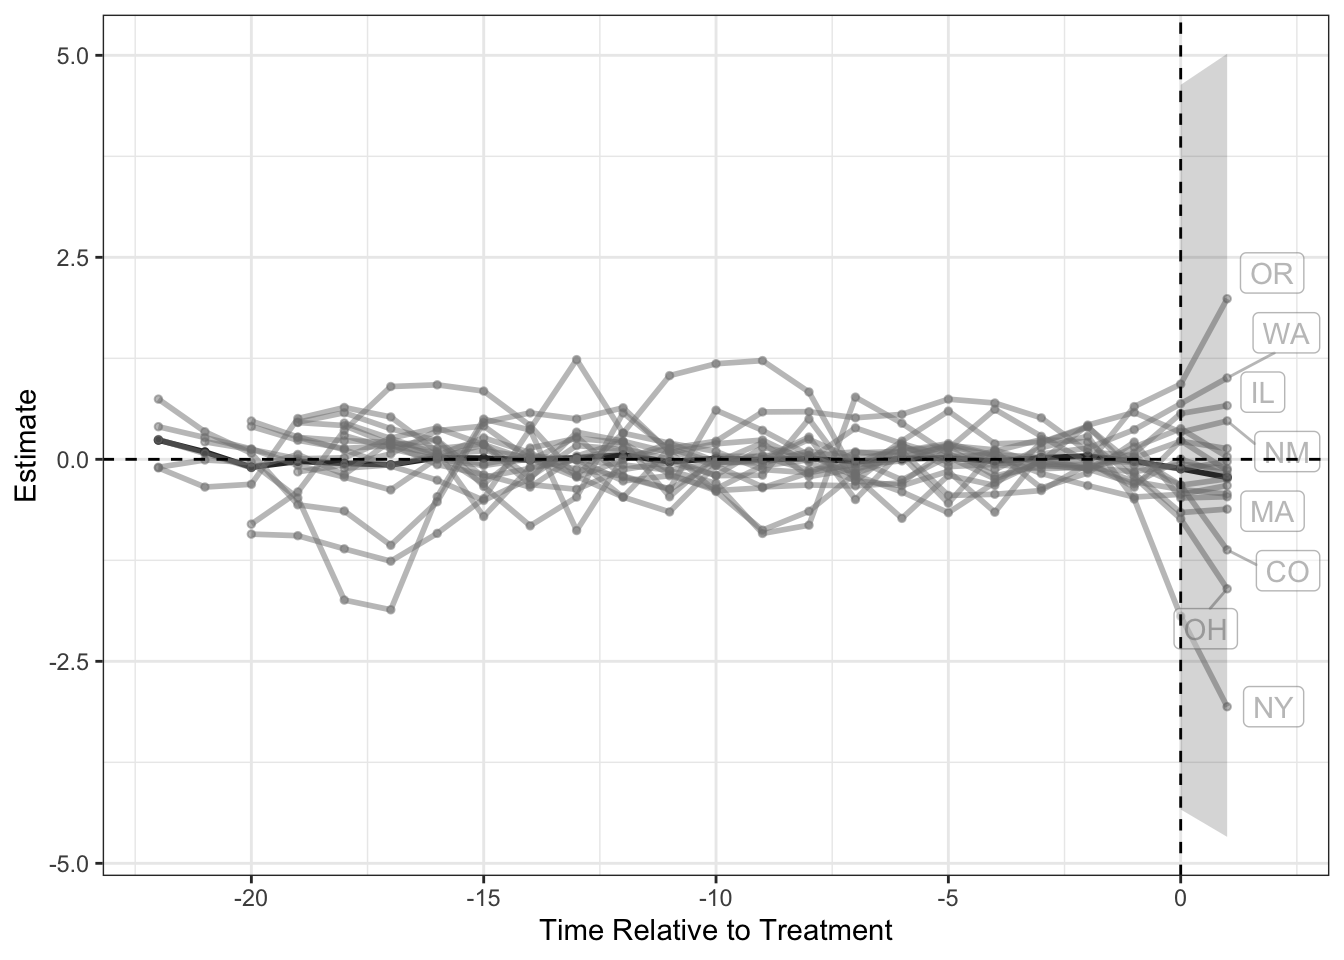
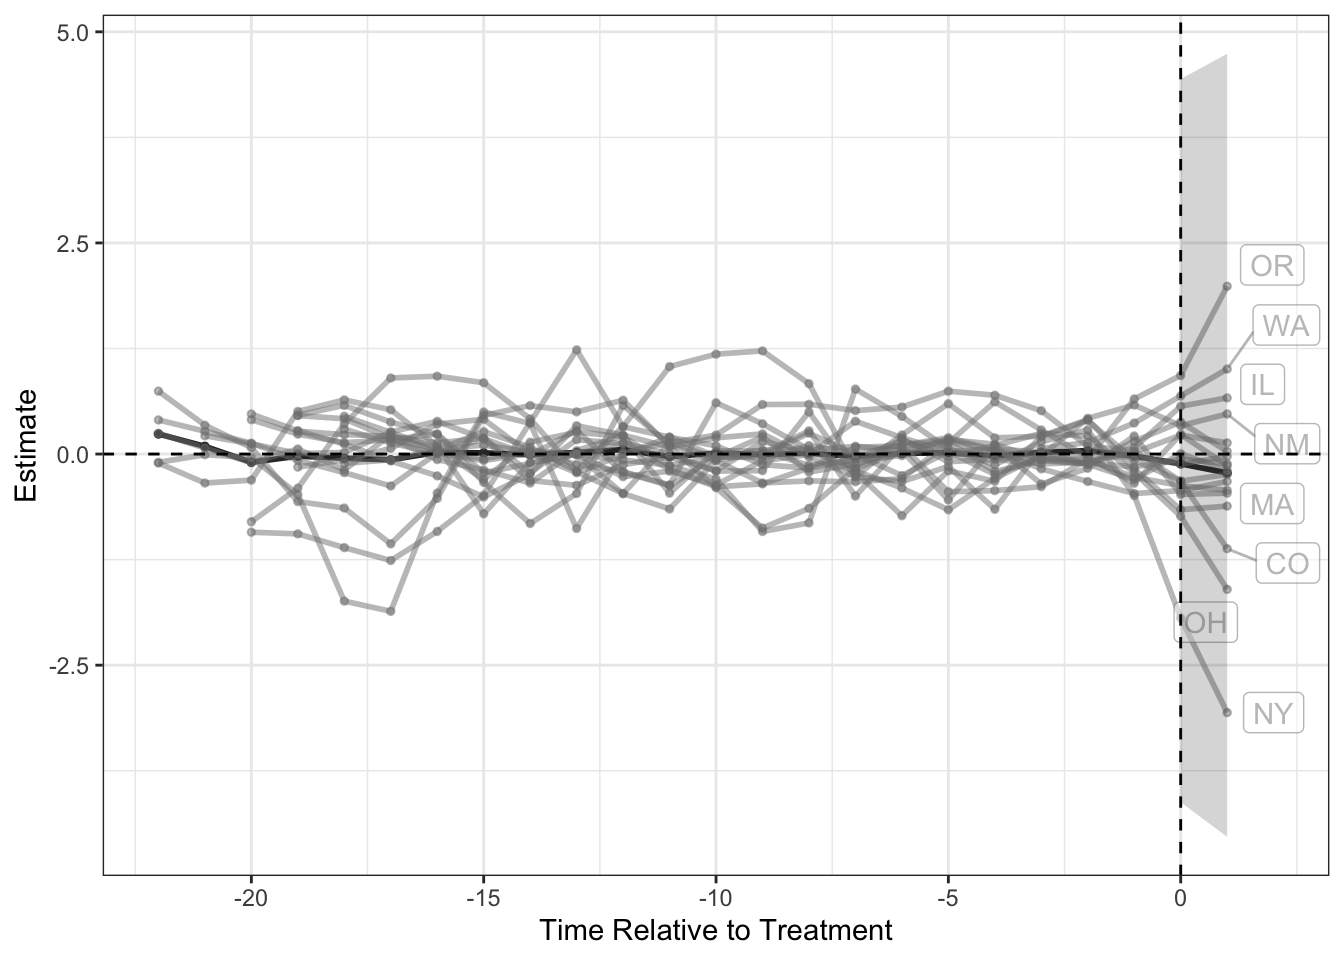
RS: updated SC

diff --git a/analysis/lottery-sc-handout.html b/analysis/lottery-sc-handout.html
@@ -679,7 +679,7 @@ single_augsynth(form = form, unit = !!enquo(unit), time = !!enquo(time),
     t_int = t_int, data = data, progfunc = "None", scm = TRUE, 
     fixedeff = FALSE)
 
-Average ATT Estimate (p Value for Joint Null):  -1.02   ( 0.71 )
+Average ATT Estimate (p Value for Joint Null):  -1.02   ( 0.69 )
 L2 Imbalance: 0.868
 Percent improvement from uniform weights: 72%
 
@@ -688,13 +688,13 @@ Avg Estimated Bias: NA
 Inference type: Conformal inference
 
  Time Estimate 95% CI Lower Bound 95% CI Upper Bound p Value
-   19   -0.355             -2.498              1.788   0.559
-   20   -0.837             -2.980              1.306   0.513
-   21   -0.961             -3.104              1.182   0.482
-   22   -1.257             -3.400              0.887   0.498
-   23   -1.272             -3.415              0.871   0.709
-   24   -1.220             -3.363              0.923   0.728
-   25   -1.266             -3.409              0.878   0.798</code></pre>
+   19   -0.355             -2.498              1.788   0.563
+   20   -0.837             -2.980              1.306   0.475
+   21   -0.961             -3.104              1.182   0.490
+   22   -1.257             -3.400              0.887   0.535
+   23   -1.272             -3.415              0.871   0.689
+   24   -1.220             -3.363              0.923   0.746
+   25   -1.266             -3.409              0.878   0.799</code></pre>
 </div>
 </div>
 <p>We can then compare the original SC fit from the <code>tidysynth</code> package to the <code>augsynth</code> fit with SC on but outcome model and fixed effects off. Note that the <code>augsynth</code> plot calls can take a minute to run.</p>
@@ -1180,7 +1180,7 @@ Call:
 multisynth(form = form, unit = !!enquo(unit), time = !!enquo(time), 
     data = data)
 
-Average ATT Estimate (Std. Error): -0.170  (2.446)
+Average ATT Estimate (Std. Error): -0.170  (2.400)
 
 Global L2 Imbalance: 0.034
 Scaled Global L2 Imbalance: 0.042
@@ -1191,8 +1191,8 @@ Scaled Individual L2 Imbalance: 0.112
 Percent improvement from uniform individual weights: 88.8   
 
  Time Since Treatment   Level   Estimate Std.Error lower_bound upper_bound
-                    0 Average -0.1157730  2.358658   -4.054095    5.016333
-                    1 Average -0.2238981  2.537288   -4.296212    5.289427</code></pre>
+                    0 Average -0.1157730  2.316238   -4.195018    4.718623
+                    1 Average -0.2238981  2.487911   -4.500307    4.995915</code></pre>
 </div>
 </div>
 <p>The average effect is estimated to be -0.170, increasing from -0.115 in the first treated period to -0.224 in the second, although there are large standard errors throughout. We can plot the fit, which defaults to plotting all individual fits and the average:</p>
